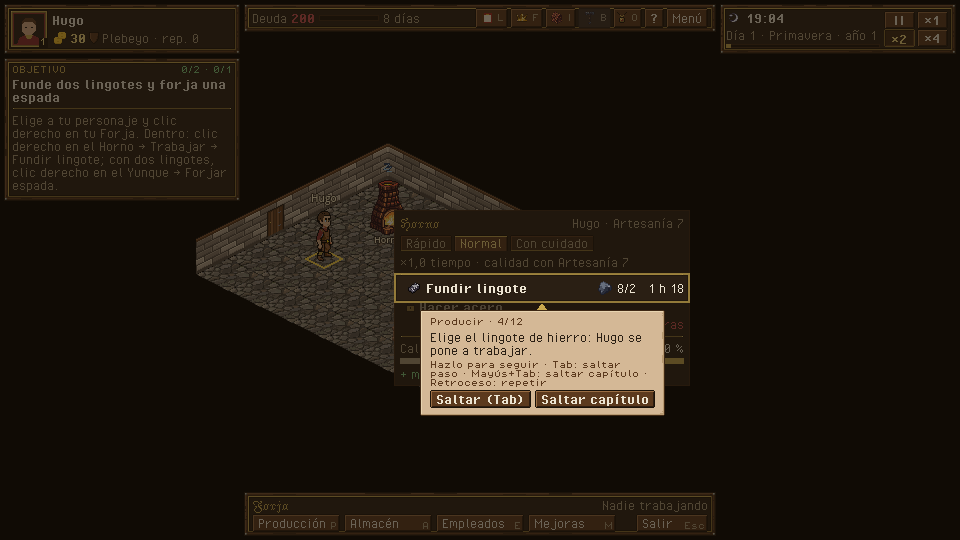
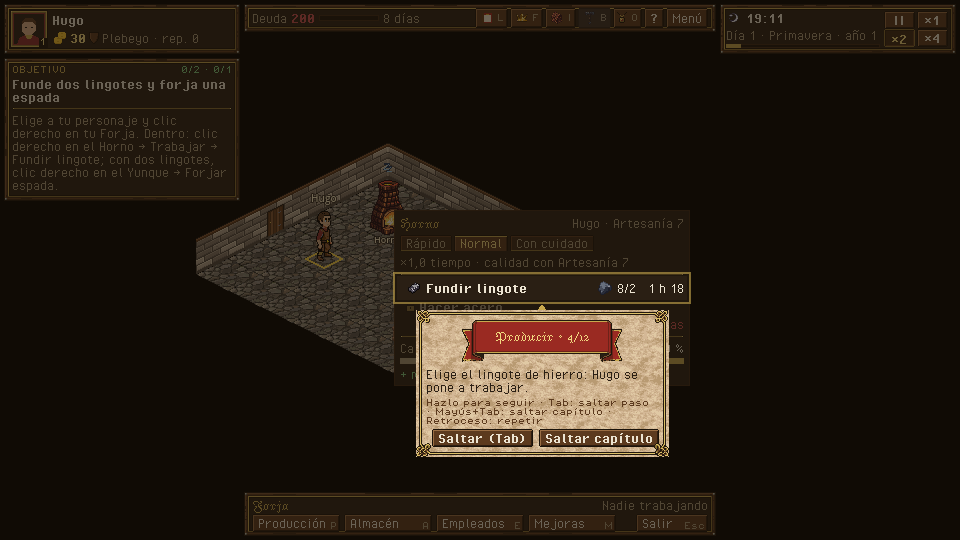
Tutorial · tarjeta sobre PageCard, entrada 05 en el índice y bucle del brillo de mejoras
La tarjeta del tutorial es el aviso corto del kit de página (PageCard, notice, Page*);
la línea de qué abre el objetivo y la de teclas van con TutorialTitle y TutorialStep.
Se quitan TutorialCard y TutorialBody del theme. El final de capítulo lleva el
nombre en la cinta. upgrade_preview: el tween del brillo va ligado al nodo
(bind_node) y no corre fuera del árbol ni con escala de tiempo alta (antes dejaba
«Infinite loop detected»), con su prueba. docs/ui/README.md: fila 05.

Changed region(s): [[0.4062, 0.5037, 0.7188, 0.8593]]

diff --git a/docs/ui/05_tutorial.md b/docs/ui/05_tutorial.md
@@ -177,8 +177,8 @@ parpadea).
   debajo de los menús y del fundido (capa 35 entre las tarjetas, 30, y las pantallas, 40).
 - **Marco**: 2 px de oro (`#c8a84e`) que late: crece 0 → 2 px y baja de brillo en 0,9 s, a saltos de píxel entero.
 - **Flecha**: triángulo de oro de 7 px entre la tarjeta y el objetivo, apuntándolo, que sube y baja 2 px.
-- **Tarjeta**: pergamino (`TutorialCard`) de 236 de ancho: `TutorialStep` (capítulo y n/total), `TutorialBody`
-  (el texto) y los botones. Se coloca debajo del objetivo; si no cabe, encima, a la derecha o a la izquierda; nunca
+- **Tarjeta**: el aviso corto del kit de página (236 de ancho): la cinta con el capítulo y n/total, el texto y los
+  botones (ver abajo). Se coloca debajo del objetivo; si no cabe, encima, a la derecha o a la izquierda; nunca
   encima del objetivo ni fuera de la pantalla. Sin objetivo, en el centro de la vista libre.
 - **Pista**: sin velo, el marco y la flecha más la tarjeta con «Entendido» / «No volver a mostrar».
 - **Sigue al objetivo cada fotograma**: los paneles entran con `UiAnim` y se mueven; el foco se recalcula siempre
@@ -186,10 +186,11 @@ parpadea).
 - **Modo guiado** (opcional, Opciones): el velo se queda los clics fuera del objetivo; pasan los del objetivo, los de
   la tarjeta y los del botón de pausa y velocidades. Esc y Espacio siempre funcionan.
 
-Theme: el común (`greybox_theme.tres`) con cuatro variaciones nuevas, `TutorialCard`, `TutorialBody`,
-`TutorialStep` y `TutorialTitle`. La tarjeta es propia y sencilla (`tutorial_card.tscn`) con la misma forma de datos
-que `PageCard.show_page` del kit de página (rama kit-pagina, aún no en main): cuando llegue, se cambia por la
-plantilla `notice`.
+Tarjeta: el aviso corto del kit de página ([04](04_kit_de_pagina.md), `PageCard`, plantilla `notice`, 236 de ancho,
+variaciones `Page*`): el capítulo y el paso en la cinta, el texto como párrafo (`PageInk`) y los botones en el pie.
+Lo que el aviso no trae va en su columna con dos variaciones propias del theme común: `TutorialTitle` (la línea de
+qué lo abre, bajo la cinta) y `TutorialStep` (la línea de teclas, sobre los botones). `TutorialCard`
+(`tutorial_card.tscn`) envuelve la página: la monta con `build` (no se centra sola) y `sticky` (un clic no la cierra).
 
 ## 6. Progreso
 

diff --git a/docs/ui/README.md b/docs/ui/README.md
@@ -18,6 +18,7 @@ con el kit real (`tools/ui/maqueta.py`, ver [tools/ui/README.md](../../tools/ui/
 | 02 | [02_menu_inicial.md](02_menu_inicial.md) | Título, partida nueva, cargar/guardar, opciones, créditos, salir, fin de partida | kit | borrador |
 | 03 | [03_produccion_sin_creditos.md](03_produccion_sin_creditos.md) | Cómo se hace la UI sin créditos, lista de la compra de PixelLab (15-nov), cómo editar piezas en Godot | kit | borrador |
 | 04 | [04_kit_de_pagina.md](04_kit_de_pagina.md) | Kit de página para las ventanas narrativas: huecos en píxel (pergamino, marcos, cinta, separador, máscaras), plantillas Carta, Lámina, Ficha y aviso, a qué ventana va cada una | kit-página | borrador |
+| 05 | [05_tutorial.md](05_tutorial.md) | Tutorial interactivo: capítulos guiados y pistas de primera vez; disparadores, objetivos de resaltado, abridores, foco y tarjeta (aviso corto del kit), progreso en los ajustes | tutorial | borrador |
 
 ### Mecánicas · economía (worker «mecánicas-economía»)
 
